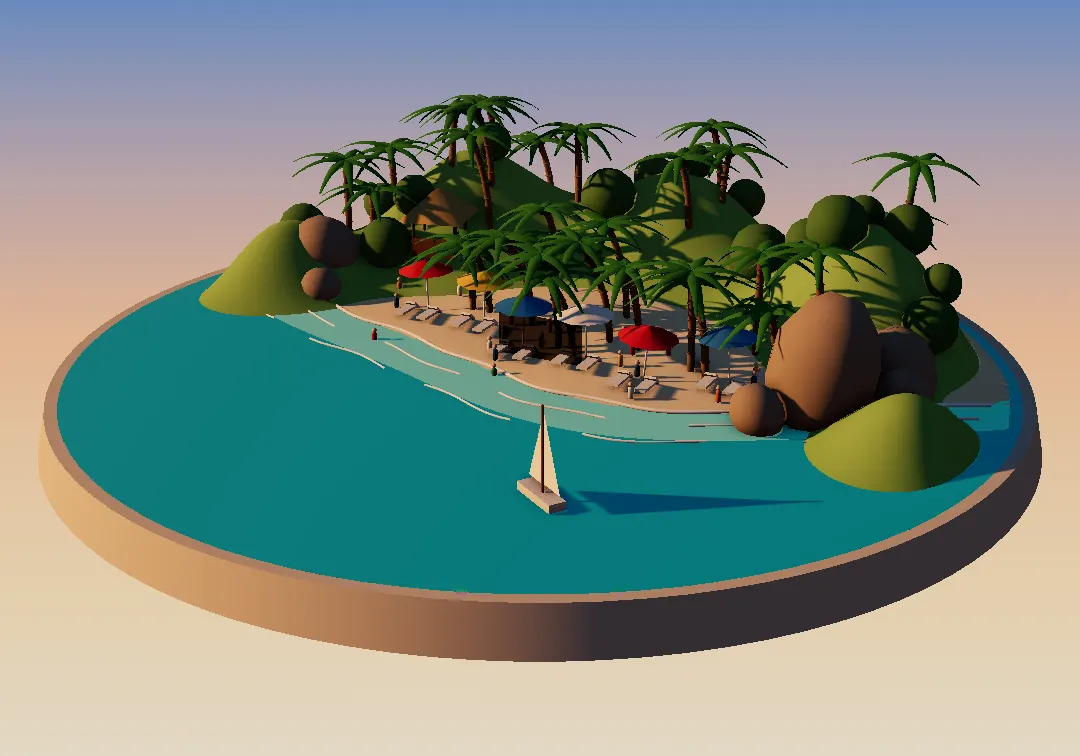
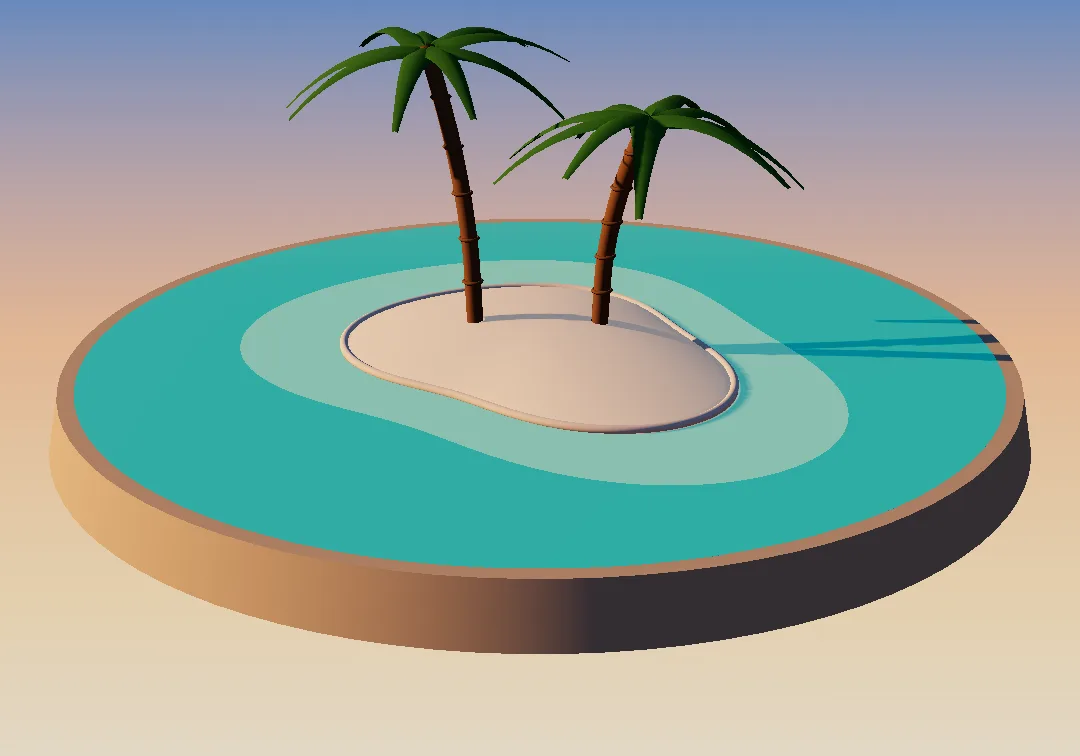
v2.88: a cartoon beach and the Great Wall across China. Yalong Bay is now a small round island of white sand in bright turquoise water, with two big palms leaning out over it (no hill, rocks, umbrellas or boats). Once you own the Great Wall, the wall itself runs right across the north of the map, fr

diff --git a/portfolio3d/models.js b/portfolio3d/models.js
@@ -298,6 +298,23 @@ function ringWins(R, y0, y1, n, rows, role = 'windowDark', ww = .16, wh = .24) {
   return many(new THREE.BoxGeometry(ww, wh, .1), role, L);
 }
 
+/* the Great Wall's cut-out for the map, cards and shop: one watchtower with a stretch of wall each side, no hill under it
+   (on the map the wall itself runs on across the country from here) */
+function wallIcon() {
+  const g = new THREE.Group(), t = new THREE.Group();
+  t.add(box(1.7, 2.3, 1.7, 'wallGrey')); t.add(box(1.84, .16, 1.84, 'stone', 0, 2.3, 0));
+  for (let s = 0; s < 4; s++) { const a = s * Math.PI / 2; t.add(arch(.36, .6, 'door', Math.sin(a) * .86, .9, Math.cos(a) * .86, a, .04)); [-.45, .45].forEach(u => t.add(arch(.22, .4, 'door', Math.sin(a) * .86 + Math.cos(a) * u, 1.05, Math.cos(a) * .86 - Math.sin(a) * u, a, .04))); }
+  const L = []; for (let s = 0; s < 4; s++) for (let j = 0; j < 5; j++) { const a = s * Math.PI / 2, u = -.7 + j * .35; L.push([Math.sin(a) * .84 + Math.cos(a) * u, 2.46, Math.cos(a) * .84 - Math.sin(a) * u, a]); }
+  t.add(many(new THREE.BoxGeometry(.18, .28, .16).translate(0, .14, 0), 'wallGrey', L));
+  t.add(box(1.0, .62, .8, 'wallGrey', 0, 2.46, 0)); t.add(roof({ w: 1.4, d: 1.15, h: .5, ridge: .5, lift: .2, role: 'roofGrey', y: 3.08 }));
+  g.add(t);
+  [-1, 1].forEach(sx => {   // the wall going off each side, a walkway with battlements on both edges
+    g.add(box(3.2, 1.25, .95, 'wallGrey', sx * 2.45, 0, 0));
+    const M = []; for (let j = 0; j < 7; j++) { const x = sx * (1.05 + j * .46); M.push([x, 1.25, .4, 0], [x, 1.25, -.4, 0]); }
+    g.add(many(new THREE.BoxGeometry(.2, .24, .14).translate(0, .12, 0), 'wallGrey', M)); });
+  return g;
+}
+
 /* ---------- 9 Badaling: the Great Wall, snaking over green hills from watchtower to watchtower ---------- */
 function greatwall() {
   const g = new THREE.Group(), R = 9.4, r = rnd(41);
@@ -610,48 +627,22 @@ function palm(x, y0, z, h, lean, ry, r) {
   [0, 2.1, 4.2].forEach(a => grp.add(sph(.07, 'trunk', tp.x + Math.cos(a) * .1, tp.y - .1, Math.sin(a) * .1, 8)));
   return at(grp, x, y0, z, ry);
 }
-// a white sailing boat out on the bay (on the stage, so it stays out of the map cut-out)
-function sailboat() {
-  const s = new THREE.Group(); s.add(box(1.1, .16, .34, 'boat')); s.add(cyl(.025, .025, 1.6, 6, 'wood', .05, .16, 0));
-  const sm = mesh(new THREE.ShapeGeometry(new THREE.Shape([new THREE.Vector2(0, 0), new THREE.Vector2(.55, 0), new THREE.Vector2(0, 1.35)])), 'sail', { double: true }); sm.position.set(.08, .32, 0); s.add(sm);
-  const jm = mesh(new THREE.ShapeGeometry(new THREE.Shape([new THREE.Vector2(0, 0), new THREE.Vector2(-.45, 0), new THREE.Vector2(0, 1.2)])), 'sail', { double: true }); jm.position.set(.02, .3, 0); s.add(jm);
-  return at(s, 3.4, .02, 5.4, -.5);
-}
-function beach() {
-  const g = new THREE.Group(), r = rnd(83), R = 9.4;
-  const shore = x => 1.0 - .045 * x * x + .4 * Math.sin(x * .55);   // the water line: a curved bay, the sea in front
-  const sandH = (x, z) => { const s = shore(x) - z; return s > 0 ? (.03 + Math.min(s, 3.5) * .06 + .05 * Math.sin(x * 1.3 + z) * Math.min(1, s / 2)) * Math.max(0, 1 - Math.pow(Math.hypot(x, z) / R, 12)) : Math.max(-.3, .03 + s * .3); };
-  g.add(field(R, sandH, 'beachSand', (x, z) => shore(x) - z > -.12));
-  const hb = bumpsH([[-5.6, -5.6, 3.6, 2.6], [-.4, -7.4, 3.0, 2.6], [5.4, -5.0, 3.2, 2.4], [-8.2, -1.2, 2.4, 1.8], [8.3, .2, 1.9, 1.6]], R), hillH = (x, z) => hb(x, z) - .3;
-  g.add(field(R, hillH, 'hill', (x, z, y) => y > Math.max(0, sandH(x, z)) - .01));
-  // the shallows: a ribbon of pale turquoise along the shore, and lines of foam
-  const N = seg(80, 20), rib = [], ri = [], cl = (x, z) => { const d = Math.hypot(x, z); return d > R - .02 ? [x * (R - .02) / d, z * (R - .02) / d] : [x, z]; };
-  for (let i = 0; i <= N; i++) { const x = -R + 2 * R * i / N, z0 = shore(x), [ax, az] = cl(x, z0 - .2), [bx, bz] = cl(x, z0 + 1.5); rib.push(ax, .012, az, bx, .012, bz); }
-  for (let i = 0; i < N; i++) { const a = i * 2; ri.push(a, a + 1, a + 2, a + 2, a + 1, a + 3); }
-  const rg = new THREE.BufferGeometry(); rg.setAttribute('position', new THREE.Float32BufferAttribute(rib, 3)); rg.setIndex(ri); rg.computeVertexNormals(); g.add(mesh(rg, 'shallow', { double: true }));
-  const foam = (off, y, rad, gap) => { let pts = []; const flush = () => { if (pts.length > 2) g.add(mesh(new THREE.TubeGeometry(new THREE.CatmullRomCurve3(pts), pts.length * 3, rad, 5, false), 'foam')); pts = []; };
-    for (let x = -R; x <= R; x += .3) { const z = shore(x) + off + .08 * Math.sin(x * 2.3); if (Math.hypot(x, z) > R - .25 || (gap && Math.sin(x * 1.7 + off * 3) > .55)) { flush(); continue; } pts.push(new THREE.Vector3(x, y, z)); } flush(); };
-  foam(.03, .035, .045, false); foam(.75, .02, .03, true); foam(1.6, .012, .03, true);
-  // rocks at the ends of the beach, like the boulders of Tianya Haijiao
-  [[6.0, .5, 1.1, 1.0, 1.7], [6.9, -.3, .8, .9, 1.0], [5.2, 1.0, .5, .55, .6], [7.4, .9, .6, .55, .7], [-7.0, -.6, .9, .85, 1.1], [-6.3, .2, .5, .5, .5]].forEach(([x, dz, sx, sz, sy]) => {
-    const m = mesh(new THREE.DodecahedronGeometry(1, DET ? 1 : 0), 'rock'); m.scale.set(sx, sy, sz); m.position.set(x, sy * .55, shore(x) + dz - .2); m.rotation.set(r() * .4, r() * 3, r() * .4); g.add(m); });
-  // palms along the back of the beach and up the hill, leaning to the sea
-  for (let i = 0, n = 0; i < 400 && n < 15; i++) { const x = -6.4 + r() * 12.4, s = 1.6 + r() * 2.4, z = shore(x) - s; if (Math.hypot(x, z) > R - .8) continue; n++;
-    g.add(palm(x, Math.max(sandH(x, z), hillH(x, z)), z, 1.7 + r() * 1.0, .5 + r() * .5, -Math.PI / 2 + (r() - .5) * 1.2, r)); }
-  for (let i = 0, n = 0; i < 600 && n < seg(30, 14); i++) { const x = (r() - .5) * 2 * (R - 1), z = -2 - r() * (R - 2.5), y = hillH(x, z); if (Math.hypot(x, z) > R - .7 || y < sandH(x, z) + .25) continue; n++;
-    if (r() < .45) g.add(palm(x, y, z, 1.3 + r() * .8, .3 + r() * .3, -Math.PI / 2 + (r() - .5) * 2, r)); else g.add(sph(.4 + r() * .3, 'tree', x, y + .3, z, 10)); }
-  // umbrellas and loungers on the sand, a beach bar under a thatched roof
-  const U = ['umbRed', 'umbYellow', 'umbBlue', 'white', 'umbRed', 'umbBlue'];
-  [-3.6, -2.1, -.6, .9, 2.4, 3.9].forEach((x, i) => { const z = shore(x) - 1.15 - (i % 2) * .35, y = sandH(x, z), u = new THREE.Group();
-    u.add(cyl(.02, .02, 1.0, 6, 'white')); const c = mesh(new THREE.ConeGeometry(.62, .26, seg(10, 6), 1), U[i]); c.position.y = 1.08; u.add(c); u.rotation.z = (r() - .5) * .2;
-    g.add(at(u, x, y, z));
-    [-.3, .3].forEach(dx => { const l = new THREE.Group(); l.add(box(.24, .05, .62, 'white', 0, .1, 0)); const b = box(.24, .05, .26, 'white', 0, .12, -.3); b.rotation.x = -.7; l.add(b); g.add(at(l, x + dx, y, z + .45, .1)); }); });
-  { const x = -4.6, z = shore(x) - 2.8, y = Math.max(sandH(x, z), hillH(x, z)), b = new THREE.Group();
-    [[-.5, -.4], [.5, -.4], [-.5, .4], [.5, .4]].forEach(([px, pz]) => b.add(cyl(.04, .04, .9, 6, 'wood', px, 0, pz))); b.add(box(1.0, .4, .2, 'wood', 0, 0, .45));
-    const th = mesh(new THREE.ConeGeometry(1.05, .7, 4, 1), 'thatch'); th.rotation.y = Math.PI / 4; th.position.y = 1.2; b.add(th); g.add(at(b, x, y, z, .3)); }
-  // people on the sand and in the shallows
-  const L = []; for (let i = 0; i < 26; i++) { const x = -5 + r() * 10, s = r() * 2.8 - (i < 6 ? 1.2 : -.1), z = shore(x) - s; if (Math.hypot(x, z) > R - .6) continue; L.push([x, s < 0 ? -.1 : sandH(x, z), z, r() * 6]); }
-  crowd(g, L);
+function beach() {   // a cartoon desert island on purpose: a small round beach of white sand, pale shallows round it and two big palms
+  const g = new THREE.Group(), r = rnd(83), R = 6.8;
+  const edge = (x, z) => { const a = Math.atan2(z, x); return 2.9 + .45 * Math.sin(2 * a + 1) + .25 * Math.sin(3 * a + .4); };   // the island's outline, radius by direction
+  const k = (x, z) => Math.hypot(x, z) / edge(x, z);   // 0 in the middle, 1 at the water line
+  const sandH = (x, z) => { const q = k(x, z); return q < 1 ? .06 + .5 * (1 - q * q) : .06 - (q - 1) * 1.6; };
+  g.add(field(R, sandH, 'beachSand', (x, z) => k(x, z) < 1.06));
+  const ring = (s, y) => { const N = seg(96, 24), pts = []; for (let i = 0; i < N; i++) { const a = i / N * Math.PI * 2, e = edge(Math.cos(a), Math.sin(a)) * s; pts.push([Math.cos(a) * e, Math.sin(a) * e]); } return pts; };
+  { const N = seg(160, 40), Mr = 6, pos = [], idx = [];   // the shallows: a band round the island in short pieces (one big flat shape streaks in the light)
+    for (let i = 0; i < N; i++) { const t = i / N * Math.PI * 2, e = edge(Math.cos(t), Math.sin(t)); for (let j = 0; j <= Mr; j++) { const q = (.9 + .65 * j / Mr) * e; pos.push(Math.cos(t) * q, .012, Math.sin(t) * q); } }
+    for (let i = 0; i < N; i++) for (let j = 0; j < Mr; j++) { const p = i * (Mr + 1) + j, q = ((i + 1) % N) * (Mr + 1) + j; idx.push(p, q, p + 1, p + 1, q, q + 1); }
+    const sg = new THREE.BufferGeometry(); sg.setAttribute('position', new THREE.Float32BufferAttribute(pos, 3)); sg.setIndex(idx); sg.computeVertexNormals(); g.add(mesh(sg, 'shallow', { double: true })); }
+  { const pts = ring(1.01).map(([x, z]) => new THREE.Vector3(x, .05, z));   // a line of foam where the sand meets the water
+    g.add(mesh(new THREE.TubeGeometry(new THREE.CatmullRomCurve3(pts, true), pts.length * 2, .07, 6, true), 'foam')); }
+  // two big palms, leaning out over the water
+  [[-.9, .5, 2.3, .8, Math.PI * .85], [.8, -.5, 2.0, .7, -Math.PI * .15]].forEach(([x, z, h, lean, ry]) => {
+    const p = palm(x, sandH(x, z) - .05, z, h, lean, ry, r); p.scale.setScalar(1.8); g.add(p); });
   return g;
 }
 
@@ -664,7 +655,7 @@ export const MONUMENTS = [
   { id: 'potala', name: 'Potala Palace', zh: '布达拉宫', city: 'Lhasa', czh: '拉萨', build: potala, stage: { R: 9.6, keep: 8.0, trees: 10, seed: 17 } },
   { id: 'goose', name: 'Big Wild Goose Pagoda', zh: '大雁塔', city: "Xi'an", czh: '西安', build: goose, stage: { R: 7.4, keep: 4.6, seed: 19 } },
   { id: 'heaven', name: 'Temple of Heaven', zh: '天坛', city: 'Beijing', czh: '北京', build: heaven, stage: { R: 8.2, keep: 6.8, trees: 30, seed: 23 } },
-  { id: 'wall', name: 'Great Wall', zh: '长城', city: 'Badaling', czh: '八达岭', build: greatwall, stage: { R: 9.6, keep: 9.5, trees: 0, people: 0, seed: 29 } },
+  { id: 'wall', name: 'Great Wall', zh: '长城', city: 'Badaling', czh: '八达岭', build: greatwall, icon: wallIcon, stage: { R: 9.6, keep: 9.5, trees: 0, people: 0, seed: 29 } },
   { id: 'sophia', name: 'St. Sophia Cathedral', zh: '圣索菲亚教堂', city: 'Harbin', czh: '哈尔滨', build: sophia, stage: { R: 9.0, keep: 7.4, trees: 18, people: 50, seed: 31 } },
   { id: 'tulou', name: 'Fujian Tulou', zh: '福建土楼', city: 'Yongding', czh: '永定', build: tulou, stage: { R: 9.4, keep: 8.6, trees: 14, people: 20, seed: 37 } },
   { id: 'dali', name: 'Three Pagodas', zh: '崇圣寺三塔', city: 'Dali', czh: '大理', build: dali, stage: { R: 8.6, water: 4.6, waterRole: 'lake', keep: 4.6, trees: 22, seed: 43 } },
@@ -672,13 +663,13 @@ export const MONUMENTS = [
   { id: 'idkah', name: 'Id Kah Mosque', zh: '艾提尕尔清真寺', city: 'Kashgar', czh: '喀什', build: idkah, stage: { R: 9.4, keep: 8.4, trees: 10, people: 60, ground: 'sand', seed: 53 } },
   { id: 'emei', name: 'Golden Summit of Mount Emei', zh: '峨眉山金顶', city: 'Emei Shan', czh: '峨眉山', build: emei, stage: { R: 9.4, keep: 9.5, trees: 0, people: 0, seed: 59 } },
   { id: 'taipei', name: 'Taipei 101', zh: '台北101', city: 'Taipei', czh: '台北', build: taipei, stage: { R: 9.2, keep: 3.6, trees: 22, people: 50, seed: 61 } },
-  { id: 'beach', name: 'Yalong Bay', zh: '亚龙湾', city: 'Sanya', czh: '三亚', build: beach, stage: { R: 9.6, ground: 'sea', keep: 9.5, trees: 0, people: 0, seed: 67 }, extra: sailboat },
+  { id: 'beach', name: 'Yalong Bay', zh: '亚龙湾', city: 'Sanya', czh: '三亚', build: beach, stage: { R: 7.2, ground: 'sea', keep: 7.1, trees: 0, people: 0, seed: 67 }, noAo: true },   // noAo: the shading pass leaves a dark block in the middle of this open, flat scene
 ];
 
 // the whole diorama for one monument; detail 0 builds the low-poly version
-export function diorama(M, detail = 1) {
+export function diorama(M, detail = 1, icon = false) {   // icon: the monument's own cut-out model, where it has one (M.icon)
   DET = detail;
-  const g = new THREE.Group(), mon = M.build();
+  const g = new THREE.Group(), mon = (icon && M.icon || M.build)();
   mon.userData.monument = true; g.add(mon); g.add(stage(M.stage.R, M.stage));
   (M.boats || []).forEach(([x, z, ry, s]) => g.add(boat(x, z, ry, s || 1)));
   if (M.extra) g.add(M.extra());

diff --git a/index.html b/index.html
@@ -6156,7 +6156,7 @@ const TRAIL = [
   { lv: 6, id: 'potala', en: 'Lhasa', zh: '拉萨', site: [91.1, 29.7], cost: 176, price: 2500, name: 'Potala Palace', nzh: '布达拉宫', h: 32, w: 28, ic: [0.4948, 0.6783, 0.1215], it: [0.4997, 0.6574, 0.1765] },
   { lv: 7, id: 'goose', en: "Xi'an", zh: '西安', site: [108.9, 34.4], cost: 224, price: 500, name: 'Big Wild Goose Pagoda', nzh: '大雁塔', h: 48, w: 18, ic: [0.5077, 0.8171, 0.0209], it: [0.5077, 0.8171, 0.0209] },
   { lv: 8, id: 'heaven', en: 'Beijing', zh: '北京', site: [116.4, 40], cost: 288, price: 2000, name: 'Temple of Heaven', nzh: '天坛', h: 36, w: 24, ic: [0.5, 0.7188, 0.0218], it: [0.5, 0.6992, 0.0221] },
-  { lv: 9, id: 'wall', en: 'Badaling', zh: '八达岭', site: [114.2, 41.4], cost: 352, price: 5000, name: 'Great Wall', nzh: '长城', h: 21, w: 26, ic: [0.5003, 0.5643, 0.2187], it: [0.4923, 0.5719, 0.233] },
+  { lv: 9, id: 'wall', en: 'Badaling', zh: '八达岭', site: [114.2, 41.4], cost: 352, price: 5000, name: 'Great Wall', nzh: '长城', h: 20, w: 14, ic: [0.4551, 0.6624, 0.1825], it: [0.4983, 0.6461, 0.2207] },
   { lv: 10, id: 'sophia', en: 'Harbin', zh: '哈尔滨', site: [126.6, 45.75], cost: 416, price: 900, name: 'St. Sophia Cathedral', nzh: '圣索菲亚教堂', h: 40, w: 20, ic: [0.5305, 0.7489, 0.0305], it: [0.5304, 0.7491, 0.0316] },
   { lv: 11, id: 'tulou', en: 'Yongding', zh: '永定', site: [117.2, 25.1], cost: 480, price: 800, name: 'Fujian Tulou', nzh: '福建土楼', the: '', h: 12, w: 26, ic: [0.4343, 0.544, 0.3608], it: [0.4522, 0.5439, 0.367] },
   { lv: 12, id: 'dali', en: 'Dali', zh: '大理', site: [100.15, 25.7], cost: 544, price: 600, name: 'Three Pagodas', nzh: '崇圣寺三塔', h: 46, w: 20, ic: [0.3999, 0.8974, 0.0201], it: [0.4642, 0.8974, 0.0204] },
@@ -6164,7 +6164,7 @@ const TRAIL = [
   { lv: 14, id: 'idkah', en: 'Kashgar', zh: '喀什', site: [76.0, 39.5], cost: 672, price: 1000, name: 'Id Kah Mosque', nzh: '艾提尕尔清真寺', h: 36, w: 24, ic: [0.5005, 0.6847, 0.0897], it: [0.5052, 0.6831, 0.0944] },
   { lv: 15, id: 'emei', en: 'Emei Shan', zh: '峨眉山', site: [103.35, 29.5], cost: 736, price: 1400, name: 'Golden Summit', nzh: '金顶', h: 32, w: 23, ic: [0.4994, 0.6791, 0.0574], it: [0.4942, 0.6785, 0.0646] },
   { lv: 16, id: 'taipei', en: 'Taipei', zh: '台北', site: [121.15, 24.25], cost: 800, price: 3000, name: 'Taipei 101', nzh: '台北101', the: '', h: 46, w: 18, ic: [0.4999, 0.7655, 0.0212], it: [0.5, 0.7655, 0.0212] },
-  { lv: 17, id: 'beach', en: 'Sanya', zh: '三亚', site: [109.55, 18.45], cost: 864, price: 700, name: 'Yalong Bay', nzh: '亚龙湾', the: '', h: 11, w: 21, ic: [0.4997, 0.5241, 0.314], it: [0.4997, 0.5241, 0.314] },
+  { lv: 17, id: 'beach', en: 'Sanya', zh: '三亚', site: [109.55, 18.45], cost: 864, price: 700, name: 'Yalong Bay', nzh: '亚龙湾', the: '', h: 20, w: 14, ic: [0.5006, 0.4754, 0.1147], it: [0.5014, 0.4603, 0.0997] },
 ];
 const TRAIL_AT = TRAIL.map((c, i) => TRAIL.slice(0, i).reduce((a, x) => a + x.cost, 0));   // proven words before each monument starts
 const trailLv = w => w.hsk ?? S.H?.byHz.get(w.hanzi)?.lv;
@@ -6319,8 +6319,8 @@ const Trail = (() => {
     [112.8, 30], [114.3, 30.6], [116, 29.7], [117.6, 31], [118.8, 32], [120.3, 31.9], [121.8, 31.5]];
   const YELLOW = [[96.5, 35], [100, 36], [103.8, 36.1], [105.7, 37.5], [106.7, 39.5], [108.5, 40.8], [111, 40.7], [111.3, 39.4], [110.6, 37.5], [110.3, 35.5], [110.4, 34.6],
     [112.5, 34.7], [113.7, 34.9], [116, 36], [117, 36.7], [118.9, 37.6]];
-  const WALL = [[98.2, 39.8], [100.5, 38.9], [102.6, 37.9], [104.2, 37.6], [106.2, 38.5], [107.6, 37.9], [109.5, 38.7], [111.3, 39.7], [113, 40.3], [114.9, 40.6], [116.3, 40.45],
-    [117.8, 40.3], [119.8, 40]];
+  const WALL = [[98.2, 39.8], [100.5, 38.9], [102.6, 37.9], [104.2, 37.6], [106.2, 38.5], [107.6, 37.9], [109.5, 38.7], [111.3, 39.7], [113, 40.4], [114.2, 41.25], [115.6, 40.9], [116.3, 40.45],
+    [117.8, 40.3], [119.8, 40], [121.2, 41], [122.6, 42], [123.9, 41.8], [124.4, 40.2]];   // the Ming wall, Jiayuguan to the Yalu: through the Great Wall's spot (Badaling), past Shanhaiguan and round Liaodong
   /* ---- the terrain map ----
      The Map tab's picture: a flat map of China, quiet and uncluttered. The ground is one soft picture, painted once per
      visit onto a canvas from a hand-made model of the country's heights: wide fields of colour for each kind of country
@@ -6481,7 +6481,7 @@ const Trail = (() => {
       Object.assign(ctx, { shadowColor: 'rgba(18,72,92,.42)', shadowBlur: 11 * P, shadowOffsetX: 1.5 * P, shadowOffsetY: 5 * P, fillStyle: '#F8EFC8' }); ctx.fill(outline); ctx.stroke(outline);
       Object.assign(ctx, { shadowColor: 'transparent', shadowBlur: 0, shadowOffsetX: 0, shadowOffsetY: 0 }); ctx.setTransform(1, 0, 0, 1, 0, 0); ctx.globalCompositeOperation = 'source-over';
       // what stands on the ground
-      const clear = (lon, lat, room) => { for (const lv in SITE) if (Math.hypot((lon - SITE[lv][0]) * CS, lat - SITE[lv][1]) < room) return false; for (const [a, b, rx, ry] of LAKES) if (((lon - a) / rx) ** 2 + ((lat - b) / ry) ** 2 < 1.6) return false; return true; };
+      const clear = (lon, lat, room) => { if (nearest(lon, lat, WALL, true)[0] < .5) return false; for (const lv in SITE) if (Math.hypot((lon - SITE[lv][0]) * CS, lat - SITE[lv][1]) < room) return false; for (const [a, b, rx, ry] of LAKES) if (((lon - a) / rx) ** 2 + ((lat - b) / ry) ** 2 < 1.6) return false; return true; };
       const T = TEX.things, ok = (lon, lat) => { const c = cell(lon, lat); return c >= 0 && M[c] && pip(lon, lat, CHINA) ? c : -1; }, put = (t, lon, lat, o) => { const [x, y] = wp(lon, lat); T.push({ t, x, y, ...o }); };
       for (const [hm, wd, pts] of RIDGE) { let n = 0;   // mountains: one peak every couple of degrees along each real range; the low ranges are green mounds instead
         for (let i = 0; i < pts.length - 1; i++) { const [a, b] = [pts[i], pts[i + 1]], len = Math.hypot((b[0] - a[0]) * CS, b[1] - a[1]), steps = Math.max(1, Math.round(len / (hm > 2400 ? (wd < .65 ? 2.5 : 1.8) : 1.6)));
@@ -6514,13 +6514,40 @@ const Trail = (() => {
      north to south. Boulders appear as you come closer, then ferns, flowers and sheep. */
   const PROPS = { cv: null, c: null, dpr: 1, lines: null };
   const TONE = { stone: ['#F2F5EE', '#B9C8B6', '#8FA69F'], sand: ['#FBEFC6', '#EBCF8E', '#CDAA6C'], dry: ['#EEF0C0', '#CFDD98', '#A9C17E'], green: ['#C6EE98', '#8FD06E', '#62AF58'], pine: ['#B4E29A', '#7CC47A', '#519E66'] };   // top, side in the light, side in shade
+  /* v2.88: once you own the Great Wall it is not only the picture at Badaling: the wall itself runs right across the north
+     of the map, from Jiayuguan in the desert to the Yalu, with a watchtower every few miles. It grows with zoom like the
+     monuments do (slower than the land), so it reads as a wall from far out and keeps its towers apart close up. */
+  const WALL_LV = TRAIL.find(t => t.id === 'wall').lv;
+  const wallPts = () => PROPS.wallPts ||= (() => { const P = WALL.map(q => wp(q[0], q[1])), out = [];   // the route, smoothed (Catmull-Rom) into points about a unit apart
+    for (let i = 0; i < P.length - 1; i++) { const p0 = P[Math.max(0, i - 1)], p1 = P[i], p2 = P[i + 1], p3 = P[Math.min(P.length - 1, i + 2)], n = Math.max(2, Math.ceil(Math.hypot(p2[0] - p1[0], p2[1] - p1[1])));
+      for (let k = 0; k < n; k++) { const t = k / n, t2 = t * t, t3 = t2 * t; out.push([0, 1].map(j => .5 * (2 * p1[j] + (p2[j] - p0[j]) * t + (2 * p0[j] - 5 * p1[j] + 4 * p2[j] - p3[j]) * t2 + (3 * p1[j] - p0[j] - 3 * p2[j] + p3[j]) * t3))); } }
+    out.push(P.at(-1)); return out; })();
+  function drawWall(c, z) {
+    const P = wallPts(), u = 1.4 * mScale() / z, H = 2.4 * u, D = 1.5 * u;   // u: 1.4 monument pixels in world units; the wall's height and the depth of its walkway
+    const trace = (dx, dy) => { c.beginPath(); P.forEach(([x, y], i) => c[i ? 'lineTo' : 'moveTo'](x + dx, y + dy)); };
+    trace(H * .45, D * .3); c.strokeStyle = 'rgba(30,75,55,.2)'; c.lineWidth = D * 1.6; c.stroke();   // its shadow on the ground
+    c.beginPath(); P.forEach(([x, y], i) => c[i ? 'lineTo' : 'moveTo'](x, y)); for (let i = P.length - 1; i >= 0; i--) c.lineTo(P[i][0], P[i][1] - H); c.closePath(); c.fillStyle = '#C3935F'; c.fill();   // the face that looks south
+    trace(0, 0); c.strokeStyle = '#A97C4E'; c.lineWidth = D; c.stroke();
+    trace(0, -H); c.strokeStyle = '#F4DDAA'; c.lineWidth = D; c.stroke();   // the walkway on top
+    c.setLineDash([u * .9, u * .9]); trace(0, -H - D * .55); c.strokeStyle = '#DDB57E'; c.lineWidth = u * 1.1; c.stroke(); c.setLineDash([]);   // battlements along its edge
+    let len = 0; const at = [0]; for (let i = 1; i < P.length; i++) { len += Math.hypot(P[i][0] - P[i - 1][0], P[i][1] - P[i - 1][1]); at.push(len); }
+    const gap = 7 * Math.pow(2, Math.max(0, Math.ceil(Math.log2(26 / (7 * z))))), towers = [];   // a tower every 7 units, every other one (or fewer) when they would come closer than 26 pixels
+    for (let d = 0, i = 0; d <= len; d += gap) { while (i < P.length - 2 && at[i + 1] < d) i++; const t = (d - at[i]) / ((at[i + 1] - at[i]) || 1); towers.push([P[i][0] + (P[i + 1][0] - P[i][0]) * t, P[i][1] + (P[i + 1][1] - P[i][1]) * t]); }
+    towers.push(P.at(-1));
+    for (const [x, y] of towers.sort((a, b) => a[1] - b[1])) { const w = 3 * u, h = H + 2.2 * u;   // a square watchtower: lit face, shaded side, a pale top with battlements and a dark door
+      c.fillStyle = 'rgba(30,75,55,.2)'; c.beginPath(); c.ellipse(x + w * .5, y + u * .3, w * .9, u * .8, 0, 0, 6.3); c.fill();
+      c.fillStyle = '#C99A66'; c.fillRect(x - w / 2, y - h, w, h); c.fillStyle = '#A27448'; c.fillRect(x + w * .18, y - h, w * .32, h);
+      c.fillStyle = '#F4DDAA'; c.fillRect(x - w / 2 - u * .2, y - h - u * .9, w + u * .4, u * .9);
+      c.fillStyle = '#DDB57E'; for (let k = 0; k < 3; k++) c.fillRect(x - w / 2 - u * .2 + k * (w + u * .4 - u * .7) / 2, y - h - u * 1.6, u * .7, u * .7);
+      c.fillStyle = '#6E4E33'; c.beginPath(); c.moveTo(x - u * .5, y); c.lineTo(x - u * .5, y - u * 1.1); c.arc(x, y - u * 1.1, u * .5, Math.PI, 0); c.lineTo(x + u * .5, y); c.fill(); }
+  }
   function drawProps() {
     const cv = PROPS.cv; if (!cv) return; const c = PROPS.c, q = PROPS.dpr, z = CAM.z;
     c.setTransform(1, 0, 0, 1, 0, 0); c.clearRect(0, 0, cv.width, cv.height); if (!TEX.ready) return;
     c.setTransform(q * z, 0, 0, q * z, q * (CAM.w / 2 - CAM.x * z), q * (CAM.h / 2 - CAM.y * z)); c.lineCap = c.lineJoin = 'round';
     const L = PROPS.lines ||= { rivers: [new Path2D(line(YANGTZE)), new Path2D(line(YELLOW))], wall: new Path2D(line(WALL)) };
     for (const p of L.rivers) { c.strokeStyle = 'rgba(62,143,184,.25)'; c.lineWidth = 2.8; c.stroke(p); } for (const p of L.rivers) { c.strokeStyle = '#8FD6EF'; c.lineWidth = 1.7; c.stroke(p); }
-    c.setLineDash([.1, 3.2]); c.strokeStyle = 'rgba(255,248,220,.95)'; c.lineWidth = 1.7; c.stroke(L.wall); c.setLineDash([]);
+    if (monOwns(WALL_LV)) drawWall(c, z); else { c.setLineDash([.1, 3.2]); c.strokeStyle = 'rgba(255,248,220,.95)'; c.lineWidth = 1.7; c.stroke(L.wall); c.setLineDash([]); }
     /* the small things arrive once you are close enough, and then fade in over a moment and stay solid: how see-through they
        are depends on time, not on how far in you are, so they never sit half-visible. A little slack between the zoom that
        brings them and the zoom that sends them away keeps them from flickering at the edge. */
@@ -8962,7 +8989,7 @@ function mountHsk() {
 
 /* ---------- install + updates ---------- */
 // For every release: raise APP_VERSION here AND "version" in version.json (same number).
-const APP_VERSION = '2.86';
+const APP_VERSION = '2.88';
 let installEvt = null;
 addEventListener('beforeinstallprompt', e => { e.preventDefault(); installEvt = e; });
 addEventListener('appinstalled', () => { installEvt = null; toast('ShiCards is on your home screen'); });

diff --git a/portfolio3d/bake.html b/portfolio3d/bake.html
@@ -95,7 +95,7 @@ const samplePts = (g, n = 400) => { const pts = []; meshesOf(g).forEach(o => { i
 function makeScene(withStage) {
   const scene = new THREE.Scene(); if (withStage) scene.background = S.bg();
   S.lights().forEach(l => scene.add(l));
-  const g = dress(diorama(M, 1), S); if (!withStage) g.remove(...g.children.filter(c => !c.userData.monument));
+  const g = dress(diorama(M, 1, !withStage), S); if (!withStage) g.remove(...g.children.filter(c => !c.userData.monument));
   scene.add(g); return { scene, g, mon: g.children.find(c => c.userData.monument) };
 }
 function cut(mon, h) {   // show the monument up to height h
@@ -126,7 +126,7 @@ const tgtS = new THREE.Box3().setFromObject(ref.g).getCenter(new THREE.Vector3()
 const { cam: camS, dist } = fitCam(samplePts(ref.g), W / H, tgtS);
 const refI = makeScene(false), monPts = samplePts(refI.mon);
 const { cam: camI } = fitCam(monPts, 1, boxOf(refI.mon).getCenter(new THREE.Vector3()), 32, 22, 26, .96);
-camI.updateMatrixWorld(); const base = new THREE.Vector3(0, 0, 0).project(camI), top = new THREE.Vector3(0, full, 0).project(camI);
+camI.updateMatrixWorld(); const base = new THREE.Vector3(0, 0, 0).project(camI), top = new THREE.Vector3(0, boxOf(refI.mon).max.y, 0).project(camI);
 out.anchor = { x: +((base.x + 1) / 2).toFixed(4), y: +((1 - base.y) / 2).toFixed(4), top: +((1 - top.y) / 2).toFixed(4) };   // where the base and the top fall in the cut-out, 0-1
 
 for (let k = 0; k <= 8; k++) {
@@ -137,7 +137,7 @@ for (let k = 0; k <= 8; k++) {
     const plane = k === 0 ? (mon.visible = false, null) : cut(mon, h);
     if (k < 8) scene.add(scaffold(ref.mon, h, full));
     const c = new EffectComposer(renderer); c.setPixelRatio(1); c.setSize(W, H); c.addPass(new RenderPass(scene, camS));
-    if (S.ao) { const ao = new GTAOPass(scene, camS, W, H); ao.updateGtaoMaterial({ radius: .6, distanceExponent: 1, thickness: 1, scale: 1.2 }); ao.blendIntensity = .9;
+    if (S.ao && !M.noAo) { const ao = new GTAOPass(scene, camS, W, H); ao.updateGtaoMaterial({ radius: .6, distanceExponent: 1, thickness: 1, scale: 1.2 }); ao.blendIntensity = .9;
       if (plane && k < 8) { ao.normalMaterial.clippingPlanes = [new THREE.Plane(new THREE.Vector3(0, -1, 0), h + .5)]; ao.normalMaterial.side = THREE.DoubleSide; }   // the shading pass would otherwise see the parts not built yet
       c.addPass(ao); }
     if (S.bloom) c.addPass(new UnrealBloomPass(new THREE.Vector2(W, H), ...S.bloom));

diff --git a/portfolio3d/styles.js b/portfolio3d/styles.js
@@ -10,7 +10,7 @@ const BASE = {
   steel: '#C8D0DA', steel2: '#9AA6B4', window: '#3A4A5A', windowLit: '#5A4232', windowDark: '#2A221C', lantern: '#D9321F',
   hill: '#8DBA5C', wallGrey: '#B2A690', brickRed: '#A4553C', copper: '#4F9A7C', earth: '#CB9A62', tea: '#5E9440', tea2: '#79AC52', hillBlue: '#7E9A8E', tileGrey: '#7E7C7A',
   sand: '#E2C595', sand2: '#C9A274', camel: '#B98A56', yellowWall: '#E8C37A', archBlue: '#3E7FA6', domeGreen: '#3F9A70', bronze: '#8A6A3E',
-  cloud: '#FFFFFF', glassTeal: '#5A9E9A', sea: '#2EB6C9', shallow: '#7FE0D6', gilt: '#F0BE4E', cliff: '#B8A58A', beachSand: '#F1DDB2', foam: '#FFFFFF', palm: '#3E8B3A', palmTrunk: '#8A6A48', thatch: '#C9A363',
+  cloud: '#FFFFFF', glassTeal: '#5A9E9A', sea: '#22DADA', shallow: '#8FF0E6', gilt: '#F0BE4E', cliff: '#B8A58A', beachSand: '#FFF9EE', foam: '#FFFFFF', palm: '#3E8B3A', palmTrunk: '#8A6A48', thatch: '#C9A363',
   umbRed: '#D8392E', umbYellow: '#F2C230', umbBlue: '#2F7FC1', sail: '#FBF7EE',
   grass: '#8DB26A', plinth: '#D8CDBB', water: '#6FA2B8', lake: '#7DB0B0', tree: '#4F7F45', trunk: '#6A4A34', person: '#ffffff', skin: '#E7C3A0', boat: '#F2EEE6', cabin: '#C9302A',
 };
@@ -50,7 +50,7 @@ export const STYLES = [
     bg: () => gradientTex([[0, '#5E7BB0'], [.45, '#E8A27A'], [.8, '#F6C892'], [1, '#F7D9B0']]),
     material: role => { const metal = ['gold', 'steel', 'steel2'].includes(role), gilt = role === 'gilt', glossy = ['pearl', 'glass', 'water', 'lake', 'roofGold', 'roofBlue'].includes(role);
       return new THREE.MeshStandardMaterial({ color: col(role === 'pearl' ? '#F07FBA' : BASE[role] || '#ccc'), roughness: metal ? .32 : gilt ? .34 : glossy ? .22 : .78, metalness: metal ? .85 : gilt ? .5 : glossy ? .15 : 0,
-        emissive: col(role === 'light' ? '#FF3B30' : role === 'gilt' ? '#5A3800' : role === 'cloud' ? '#806A60' : role === 'sea' ? '#06343A' : role === 'shallow' ? '#1A4A44' : '#000'), emissiveIntensity: role === 'light' ? 2 : 1 }); },
+        emissive: col(role === 'light' ? '#FF3B30' : role === 'gilt' ? '#5A3800' : role === 'cloud' ? '#806A60' : role === 'sea' ? '#0E6668' : role === 'shallow' ? '#2E7A70' : role === 'beachSand' ? '#6A5E50' : '#000'), emissiveIntensity: role === 'light' ? 2 : 1 }); },
     lights: () => [new THREE.HemisphereLight('#8AA6D6', '#B07A50', .7), sun('#FFB36B', 3.6, [-16, 7, 10], true, 2)],
     exposure: 1.05,
   },

diff --git a/sw.js b/sw.js
@@ -2,7 +2,7 @@
    - The app page itself: try the internet first (so updates arrive), fall back to the saved copy.
    - Fonts, libraries, icons, stroke data: use the saved copy, fetch once if missing.
    - Pinyin lookups are never cached here (the app caches them itself). */
-const CACHE = 'moka-v187';
+const CACHE = 'moka-v188';
 const CORE = ['./', './index.html', './manifest.webmanifest', './icons/icon-192.png', './icons/icon-512.png', './icons/logo.svg', './mascots/shi-shi.svg',
   'https://cdn.jsdelivr.net/npm/hanzi-writer@3.7.2/dist/hanzi-writer.min.js',
   'https://cdn.jsdelivr.net/npm/pinyin-pro@3.26.0/dist/index.js'];
